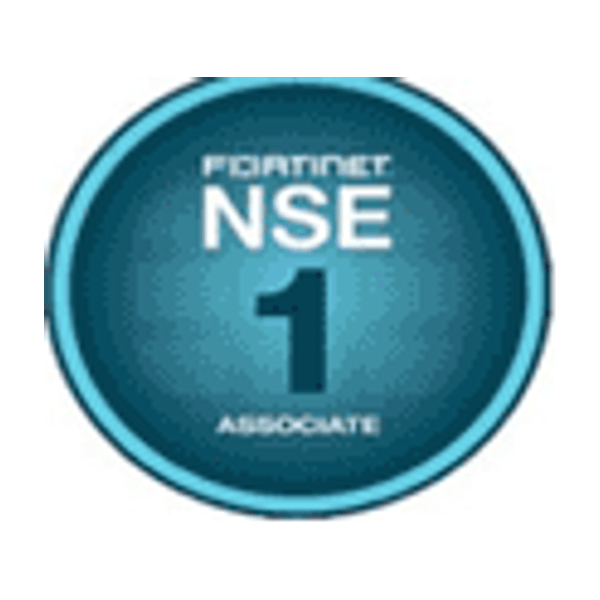
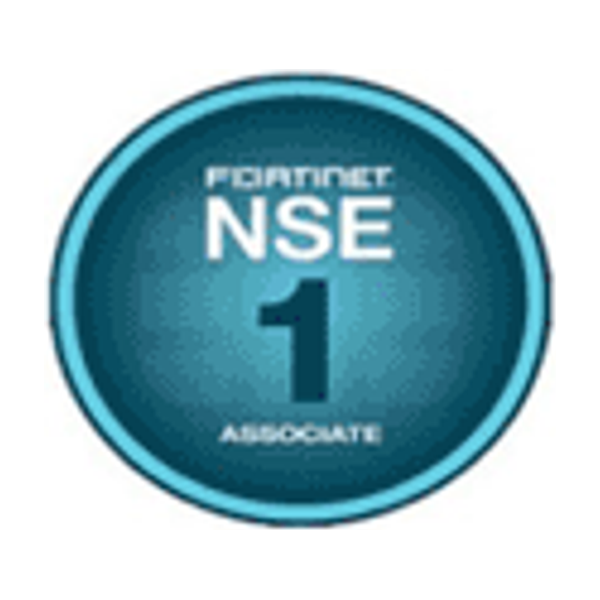
Fix two clipped certification badges
Both were crop artifacts from the source collage:

- juniper-jncia: the crop ran to y=683 while the NSE 1 circle below starts at
  y=679, so a blue sliver of it was baked into the bottom of the badge
- fortinet-nse1: the crop started at y=682 while its circle starts at y=679,
  cutting the top of the ring

Re-cropped from measured bounds and put back on the same 512px square canvas
as the rest of the set.

Changed region(s): [[0.33, 0.24, 0.66, 0.75], [0.06, 0.09, 0.93, 0.63], [0.12, 0.51, 0.93, 0.9]]

diff --git a/supabase/templates/confirmation.html b/supabase/templates/confirmation.html
@@ -66,7 +66,7 @@
                 GloryTech Academy<br />
                 <a href="https://t.me/glorytechacademy" style="color:#007a42;font-weight:700;text-decoration:none;">t.me/glorytechacademy</a>
                 &nbsp;·&nbsp;
-                <a href="mailto:info@glorytech.ly" style="color:#007a42;font-weight:700;text-decoration:none;">info@glorytech.ly</a>
+                <a href="mailto:info@academy.glorytech.ly" style="color:#007a42;font-weight:700;text-decoration:none;">info@academy.glorytech.ly</a>
               </td>
             </tr>
           </table>

diff --git a/supabase/templates/magic_link.html b/supabase/templates/magic_link.html
@@ -66,7 +66,7 @@
                 GloryTech Academy<br />
                 <a href="https://t.me/glorytechacademy" style="color:#007a42;font-weight:700;text-decoration:none;">t.me/glorytechacademy</a>
                 &nbsp;·&nbsp;
-                <a href="mailto:info@glorytech.ly" style="color:#007a42;font-weight:700;text-decoration:none;">info@glorytech.ly</a>
+                <a href="mailto:info@academy.glorytech.ly" style="color:#007a42;font-weight:700;text-decoration:none;">info@academy.glorytech.ly</a>
               </td>
             </tr>
           </table>

diff --git a/src/config/site.js b/src/config/site.js
@@ -4,7 +4,7 @@ import { config } from '../lib/config';
 export const site = {
   telegramUrl: 'https://t.me/glorytechacademy',
   telegramHandle: '@glorytechacademy',
-  email: config.contactEmail || 'info@glorytech.ly',
+  email: config.contactEmail || 'info@academy.glorytech.ly',
   phone: '+218917310458',
   phoneDisplay: '+218 91 731 0458',
 };

diff --git a/docs/DEPLOY-LIBYANSPIDER.md b/docs/DEPLOY-LIBYANSPIDER.md
@@ -60,7 +60,7 @@ https://glorytech-academy.XXXX.workers.dev
 VITE_SUPABASE_URL=https://icmzrmzwomnnjojzaafq.supabase.co
 VITE_SUPABASE_PUBLISHABLE_KEY=sb_publishable_xYS9uFaMfZjjF7kZFgXEIQ_N1IYBggy
 VITE_SITE_URL=https://academy.glorytech.ly
-VITE_CONTACT_EMAIL=info@glorytech.ly
+VITE_CONTACT_EMAIL=info@academy.glorytech.ly
 VITE_API_BASE=https://glorytech-academy.XXXX.workers.dev
 ```
 
@@ -117,6 +117,6 @@ npm run package:cpanel
 
 ## ملاحظات
 
-- **البريد**: استضافة Godzilla تصلح لاستضافة `info@glorytech.ly` من cPanel ← Email Accounts.
+- **البريد**: استضافة Godzilla تصلح لاستضافة `info@academy.glorytech.ly` من cPanel ← Email Accounts.
 - **سرعة المقاطع**: الـ Worker يخزّن أجزاء الفيديو على شبكة Cloudflare، فتُفتح المحاضرة فوراً بعد أول مشاهدة. المشاهدة الأولى لكل محاضرة تبقى محكومة بسرعة Google Drive. الحل الجذري نقل المقاطع إلى **Cloudflare R2** (أول 10 جيجا مجاناً، ومقاطعك الحالية حوالي 8 جيجا).
 - **بديل أبسط مستقبلاً**: نقل الدومين كاملاً إلى Cloudflare DNS ونشر الموقع والـ Worker معاً بأمر `npx wrangler deploy` واحد، فتستغني عن الرفع اليدوي. تبقى استضافة Godzilla للبريد.

diff --git a/docs/DEPLOY-DOCKER.md b/docs/DEPLOY-DOCKER.md
@@ -48,7 +48,7 @@
 | `SUPABASE_URL` | `https://icmzrmzwomnnjojzaafq.supabase.co` |
 | `SUPABASE_PUBLISHABLE_KEY` | `sb_publishable_…` |
 | `API_BASE` | `https://glorytech-academy.XXXX.workers.dev` |
-| `CONTACT_EMAIL` | `info@glorytech.ly` |
+| `CONTACT_EMAIL` | `info@academy.glorytech.ly` |
 | `PORT` | يضبطه Render تلقائياً |
 
 يعني: **صورة واحدة** تصلح للتجربة والإنتاج، وتغيير أي قيمة = إعادة تشغيل بثوانٍ، لا إعادة بناء.
